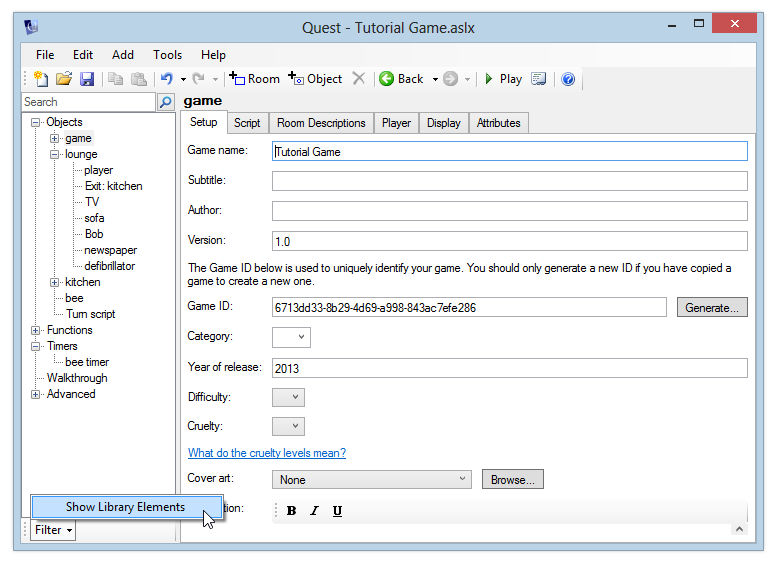
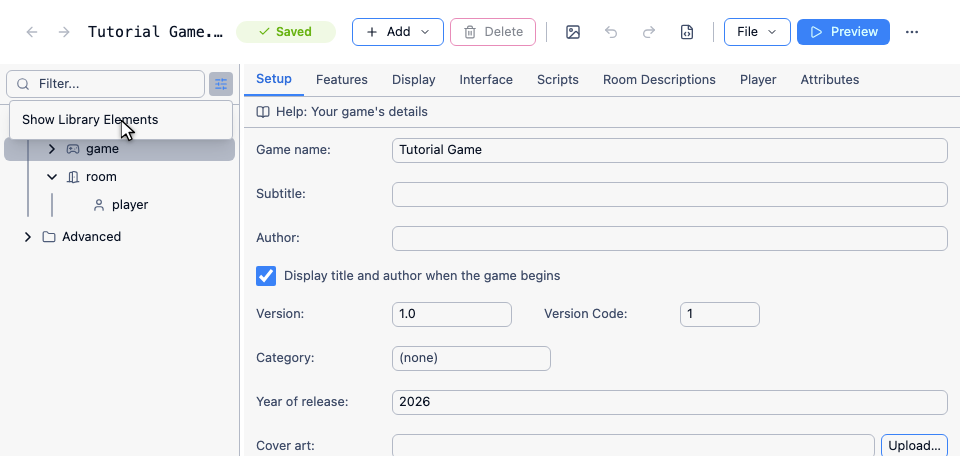
docs: fill gaps in What's new and fix stale library/function docs (#2307)

diff --git a/site/src/content/docs/advanced-topics/using-libraries.md b/site/src/content/docs/advanced-topics/using-libraries.md
@@ -7,7 +7,7 @@ sidebar:
 Libraries allow you to reuse elements in multiple games. That might be [object types](/advanced-topics/using-inherited-types), [functions](/howto/scripting/creating-functions-which-return-a-value), or even common objects. In fact, libraries are the basis of how Quest Viva works - Core.aslx is a library, included by default in all Quest Viva games. It handles much of the standard text adventure game functionality - working out which objects the player can see, handling player commands, implementing containers, and much more. This means that Quest Viva's built-in functionality is extensible and indeed replaceable.
 
 
-To see what these libraries add to your game, go to the bottom left of the Quest Viva GUI, click on Filter, and select Show Library Elements. You will see that a shed load of stuff appears in the hierarchy on the left. Everything in grey has come from a library, and if you click on it, Quest Viva will tell you what library in a yellow banner across the top. Core.aslx adds most of the functions, all the types, commands and verbs, while English.aslx adds the templates (some of the more fundamental functions and all script commands are built-in).
+To see what these libraries add to your game, click the tree view options button above the tree, and select Show Library Elements. You will see that a shed load of stuff appears in the tree. Everything in grey has come from a library, and if you click on it, a banner across the top tells you which library it came from. Core.aslx adds most of the functions, all the types, commands and verbs, while English.aslx adds the templates (some of the more fundamental functions and all script commands are built-in).
 
 ![](/images/Showlibraryelements.png)
 
@@ -23,7 +23,16 @@ You can find libraries:
 
 ## How to add a library to your game
 
-To add a library to your game, go the bottom of the left pane in the GUI, and expand Advanced, then click on Included Libraries. Click Add, and navigate to the library. Quest Viva will copy the file to your game folder, and add a line of code to your game so the library is part of it. You will see a message at the top of the screen asking you to save your game, and then reload it; this will ensure the library is incorporated into the editor session.
+To add a library to your game, click Advanced at the bottom of the tree, then click "Add Library". (Once your game has a library, Included Libraries also appears under Advanced, and its "⋯" button has "Add Library" too.) Choose the library file (`.aslx` or `.xml`). Quest Viva stores a copy of the file with your game, and adds a line of code to your game so the library is part of it. A banner then asks you to reload the editor - click "Reload" so the library's contents are loaded into the editor session.
+
+
+## Editing a library
+
+Click an included library in the tree to see its contents. If it's one of your own libraries, you can edit it right there. When you click away, your change is checked first: if the XML isn't valid, the edit is refused and the file keeps its last working version, so a mistake can't leave your game unable to load. A library is read when the game loads, so after a successful edit a banner asks you to reload the editor to apply it.
+
+You can also edit a library in the raw XML code view: choose the library from the file list at the top instead of your game file, make your changes, then click Apply.
+
+The built-in libraries that ship with Quest Viva, such as Core.aslx and English.aslx, are shown read-only, because they aren't part of your game file. To change something from one of those, copy it into your game instead - see [Overriding](/advanced-topics/overriding).
 
 
 ## Publishing your game
@@ -54,7 +63,7 @@ If you've created some functionality in your game that you think would be useful
 
 So you want to create your own library...
 
-It is pretty easy. Library files are just text files, so you need a text editor; I recommend Notepad++. Quest Viva itself cannot handle them unfortunately. Like Quest Viva itself, library files must be in XML, and a simple understanding of XML is useful.
+It is pretty easy. Library files are just text files, so you can start one in any text editor. Once you have added it to your game, you can carry on editing it in Quest Viva itself (see [Editing a library](#editing-a-library)). Like Quest Viva itself, library files must be in XML, and a simple understanding of XML is useful.
 
 The root element of a library file is `library`. This means that the first line of the file should be this:
 ```xml
@@ -78,7 +87,7 @@ And ends
 ```
 And make sure you get whole lines.
 
-In both the Quest Viva full code view and Notepad++ you will see minus signs in boxes down the left side. If you click on these, the XML element will be collapsed into a single line. Now you just need to copy-and-paste that one line, and you can be sure you have the whole element.
+In the Quest Viva raw XML code view, and in most code editors, you will see fold markers down the left side. If you click on one, the XML element will be collapsed into a single line. Now you just need to copy-and-paste that one line, and you can be sure you have the whole element.
 
 Personally, I like to move all turn scripts, functions, verbs, commands and types into libraries, and leave objects (rooms and items) in the main game. For one thing, objects are a lot easier to edit in the proper editor, while functions and commands not so much. An important point here is that you do not need to plan to use libraries from the start. In fact, there is not much point until you have a fair number of functions in your game.
 
@@ -105,7 +114,7 @@ When the game is published, Quest Viva will get the code from the library in tha
 
 ## Tips for large games
 
-If your game is big, you might find it convenient to break it up across several libraries, so it is easier to find things. Arrange the contents of libraries systematically. For example, put commands in one library, functions in another. Notepad++ allows you to search all files in a folder, which is a big help.
+If your game is big, you might find it convenient to break it up across several libraries, so it is easier to find things. Arrange the contents of libraries systematically. For example, put commands in one library, functions in another. If your game is kept in a folder, a code editor that can search every file in it is a big help.
 
 You can have library files invoked from other library files by the way, just as they are from the main game file.
 

diff --git a/site/src/content/docs/whats-new.md b/site/src/content/docs/whats-new.md
@@ -60,6 +60,8 @@ Because a game no longer needs a server to run it, you're no longer tied to text
 
 See [Hosting your game](/publishing/hosting) for all the options.
 
+Published `.quest` files now also follow the [Treaty of Babel](https://babel.ifarchive.org/babel.html), a standard that interactive fiction catalogues and tools use to identify games. Each one carries your game's IFID - a unique ID for your game, which is the Game ID on the Setup tab - and an iFiction record of its title, author, cover and other details. Exported HTML includes the IFID too. There's also a new version code on the Setup tab, a number you increase with each release - see [Version and Game ID](/publishing/game-details#version-and-game-id).
+
 WebPlayer, the server-based player, has been rewritten for Quest Viva - Quest 5's needed Windows, and this one runs on cross-platform .NET, so you can host it wherever you like. WasmPlayer has rather overtaken it since, though, so it's a specialist choice now: worth it if you specifically don't want players to be able to download your `.quest` file, for a treasure hunt or a competition say. See the [WebPlayer guide](/publishing/webplayer).
 
 ## Players can save without an account
@@ -71,14 +73,19 @@ In Quest 5, saving an online game meant having a textadventures.co.uk account. Q
 The editor was rebuilt for Quest Viva. Most of it does what it always did - here's what's different:
 
 - **Autosave** - your changes are saved as you make them, so there's no Save button to forget
+- **Works on phones and tablets** - the layout adapts to the screen, so on a phone the element tree and its properties each get the full screen, with a back button to switch between them, and the toolbar and dialogs are sized for touch
 - **A better debugger** - you can change attribute values as well as read them, search and sort the attribute list, and leave it open while you play. See [Debugging your game](/howto/scripting/debugging-your-game)
 - **Light and dark themes**, or match your system setting
 - **Syntax highlighting and autocompletion** in Code View
 - **An asset picker** for images and sounds you've already added to your game
+- **Folders for functions**, so a game with lots of functions doesn't have to be one long list. See [Organising functions into folders](/howto/tasks/about-functions#organising-functions-into-folders)
 - **Safe Mode**, a raw XML editor that opens if a game file fails to load, so a broken file is recoverable instead of lost
 - **Advanced options hidden by default**, not only in Simple Mode
 - **Keyboard and screen reader support**, throughout the editor and the player
 - **A translated interface** - English, German and Spanish, in the browser as well as on the desktop
+- **Help where you need it** - most editor tabs link to the guide for that tab, and script commands have a "?" button that opens their reference page
+- **Editable included libraries** - you can edit your own libraries from the tree, instead of in a separate text editor. Changes are checked before they're saved, so a mistake can't leave your game unable to load
+- **Small tweaks** - library functions are grouped by the file they come from, the tree remembers which parts you had expanded for each game and can expand or collapse everything at once, Code View can fold sections of a script, and a setting opens scripts in Code View by default
 
 ## New in the engine
 
@@ -86,6 +93,7 @@ Most of the scripting language is unchanged, but there are some additions:
 
 - **Pages in text adventures.** Quest 5 only had pages in gamebooks. Quest Viva lets a text adventure switch into a page - a set of links the player chooses from - which is a much easier way to write conversations and dialogue trees. See [Using Pages](/tutorial/using-pages).
 - **Asking the player something, without callbacks.** A script can now pause for the player and carry on at the next line: `GetInput()` for typed input, `Ask()` for a yes/no question, `ShowMenu()` for a menu, and `request (Wait, "")` to wait for a keypress. These were in Quest 5 from the start, but were deprecated part-way through its life - in 5.4, and 5.5 for pausing - because they held a real thread while they waited. Quest Viva suspends the script instead, so they work properly, and they are what the script editor now offers. The older forms that took a nested callback block - the `get input`, `ask`, `show menu` and `wait` script commands - still run, so games using them are unaffected, but they are no longer in the list of commands you can add. They were always the harder way to write anything that asks more than one question.
+- **Questions and menus in the game text.** In games saved in Quest Viva, a question or menu now appears as numbered links in the game text instead of a pop-up window. Players can click an option or type its number.
 - Plenty of smaller additions and fixes besides - the [changelog](https://github.com/textadventures/quest/blob/main/CHANGELOG.md) lists these from 6.0.0-beta.36 onwards.
 
 A game saved in the Quest Viva editor is marked as ASL version 600 - `<asl version="600">` at the top of the file. Older games load and run unchanged - the version number just tells the engine which behaviour to use where something has been fixed in a way that would otherwise change an existing game.

diff --git a/site/src/content/docs/howto/tasks/about-functions.md b/site/src/content/docs/howto/tasks/about-functions.md
@@ -50,13 +50,21 @@ The power of Quest Viva is that it lets you do so much. It has dozens of built-i
 
 So why would you want to use a function? The basic reason is because you want to do the same thing in two or more different places. Let us say you have a futuristic city, and the player can teleport between any of several points. Each time he teleports, you want to charge him, and give a little description. The first time, you want to give a longer description, but you do not know which route that will be. The way to set this up is to have each exit call a function.
 
-To start, click the "⋯" button next to Functions in the tree and select "Add Function"; give your function a good name. Like any function in a programming language, you can have parameters and a return value. In the example, the destination is a parameter, so click the parameters "Add" button and type "destination". The rest of it is creating a script as normal. The one extra point is that you can reference the parameters as expressions. Once you have the function set up, you just need to call it. "Call function" is an option under scripts, and when you select it, you can put in your parameters.
+To start, click Advanced at the bottom of the tree and click "Add Function" (once your game has a function, Functions also appears under Advanced, and its "⋯" button has "Add Function" too); give your function a good name. Like any function in a programming language, you can have parameters and a return value. In the example, the destination is a parameter, so click the parameters "Add" button and type "destination". The rest of it is creating a script as normal. The one extra point is that you can reference the parameters as expressions. Once you have the function set up, you just need to call it. "Call function" is an option under scripts, and when you select it, you can put in your parameters.
+
+### Organising functions into folders
+
+Once your game has more than a handful of functions, you can group them into folders. Click the "⋯" button next to a function in the tree and choose "Move to folder…". Pick an existing folder from the list, or type a name to create a new one. To take a function back out of its folder, choose "(top level)".
+
+A folder's own "⋯" menu lets you move the whole folder up or down, and "Add Function here" creates a new function that's already in that folder.
+
+Folders are only there to help you find things in the editor. They don't change how a function is called - you still call it by its name, wherever it's filed.
 
 ### A more complex example
 
 As another example, let us say you have a room with a bench and another room with a chair, and you want the player to be able to type SIT, SIT ON BENCH and SIT ON CHAIR. One way would be to have a function that takes the seat as a parameter. You can set up a SIT command in each room that sends it the right seat depending on the room, and you can create SIT ON verbs for the chair and the bench that use the Sit function.
 
-So how do we create a function? In the tree, click the "⋯" button next to Functions, and select "Add Function". Your new function will appear. Set the return type; in this case the function will not return anything, so we can leave it as "None". Then you can add the parameters.
+So how do we create a function? Click Advanced at the bottom of the tree and click "Add Function" - or, if your game already has functions, click the "⋯" button next to Functions and select "Add Function". Your new function will appear. Set the return type; in this case the function will not return anything, so we can leave it as "None". Then you can add the parameters.
 
 You can use any names you like here; there is no need for them to correspond to the names in the commands or verbs - however the order IS important! In this case there is only one parameter, and I am going to call it "seat".
 

diff --git a/site/src/content/docs/publishing/game-details.md b/site/src/content/docs/publishing/game-details.md
@@ -22,7 +22,7 @@ Most of it can be left until you are ready to publish, but the game name and aut
 
 **Version code** is a number, for machines. Increase it every time you release an update, so that two builds can always be told apart in the right order even when their version labels cannot be compared. Both are shown together when the player types `VERSION`, and at the head of a [transcript](/howto/world/transcript).
 
-**Game ID** uniquely identifies your game, and is generated for you when the game is created. It is your game's IFID, the identifier used across interactive fiction to refer to one specific work, and it is shown by the `VERSION` command. You should never normally change it. The one time you should is if you made this game by copying an existing one: both would otherwise claim the same identity, and a player's saved games could end up attached to the wrong game. Generate a new ID in that case, and only that case.
+**Game ID** uniquely identifies your game, and is generated for you when the game is created. It is also your game's IFID - the ID that interactive fiction catalogues and tools use to tell games apart, as defined by the [Treaty of Babel](https://babel.ifarchive.org/babel.html) - and it is shown by the `VERSION` command. You should never normally change it. The one time you should is if you made this game by copying an existing one: both would otherwise claim the same identity, and a player's saved games could end up attached to the wrong game. Generate a new ID in that case, and only that case.
 
 ## Category, year and cover art
 

diff --git a/site/src/content/docs/howto/world/changing-templates.md b/site/src/content/docs/howto/world/changing-templates.md
@@ -8,7 +8,7 @@ When a player types in a command that Quest Viva doesn't recognise, it will by d
 
 The standard responses are all defined by **templates**, and these all exist in the **standard libraries**. These libraries contain standard game text, most of the standard behaviour in a game, all of the Editor screens - in fact a lot of Quest Viva's functionality comes from the libraries. The libraries are .aslx files, just like your game file - a lot of Quest Viva is written in Quest Viva itself.
 
-Everything in the libraries is included in your game, but the Editor usually hides all this from you, so you can focus on your game itself. You can view library elements by clicking the Filter button at the bottom of the editor tree, and selecting "Show Library Elements".
+Everything in the libraries is included in your game, but the Editor usually hides all this from you, so you can focus on your game itself. You can view library elements by clicking the tree view options button above the editor tree, and selecting "Show Library Elements".
 
 ![](/images/Showlibraryelements.png)
 
